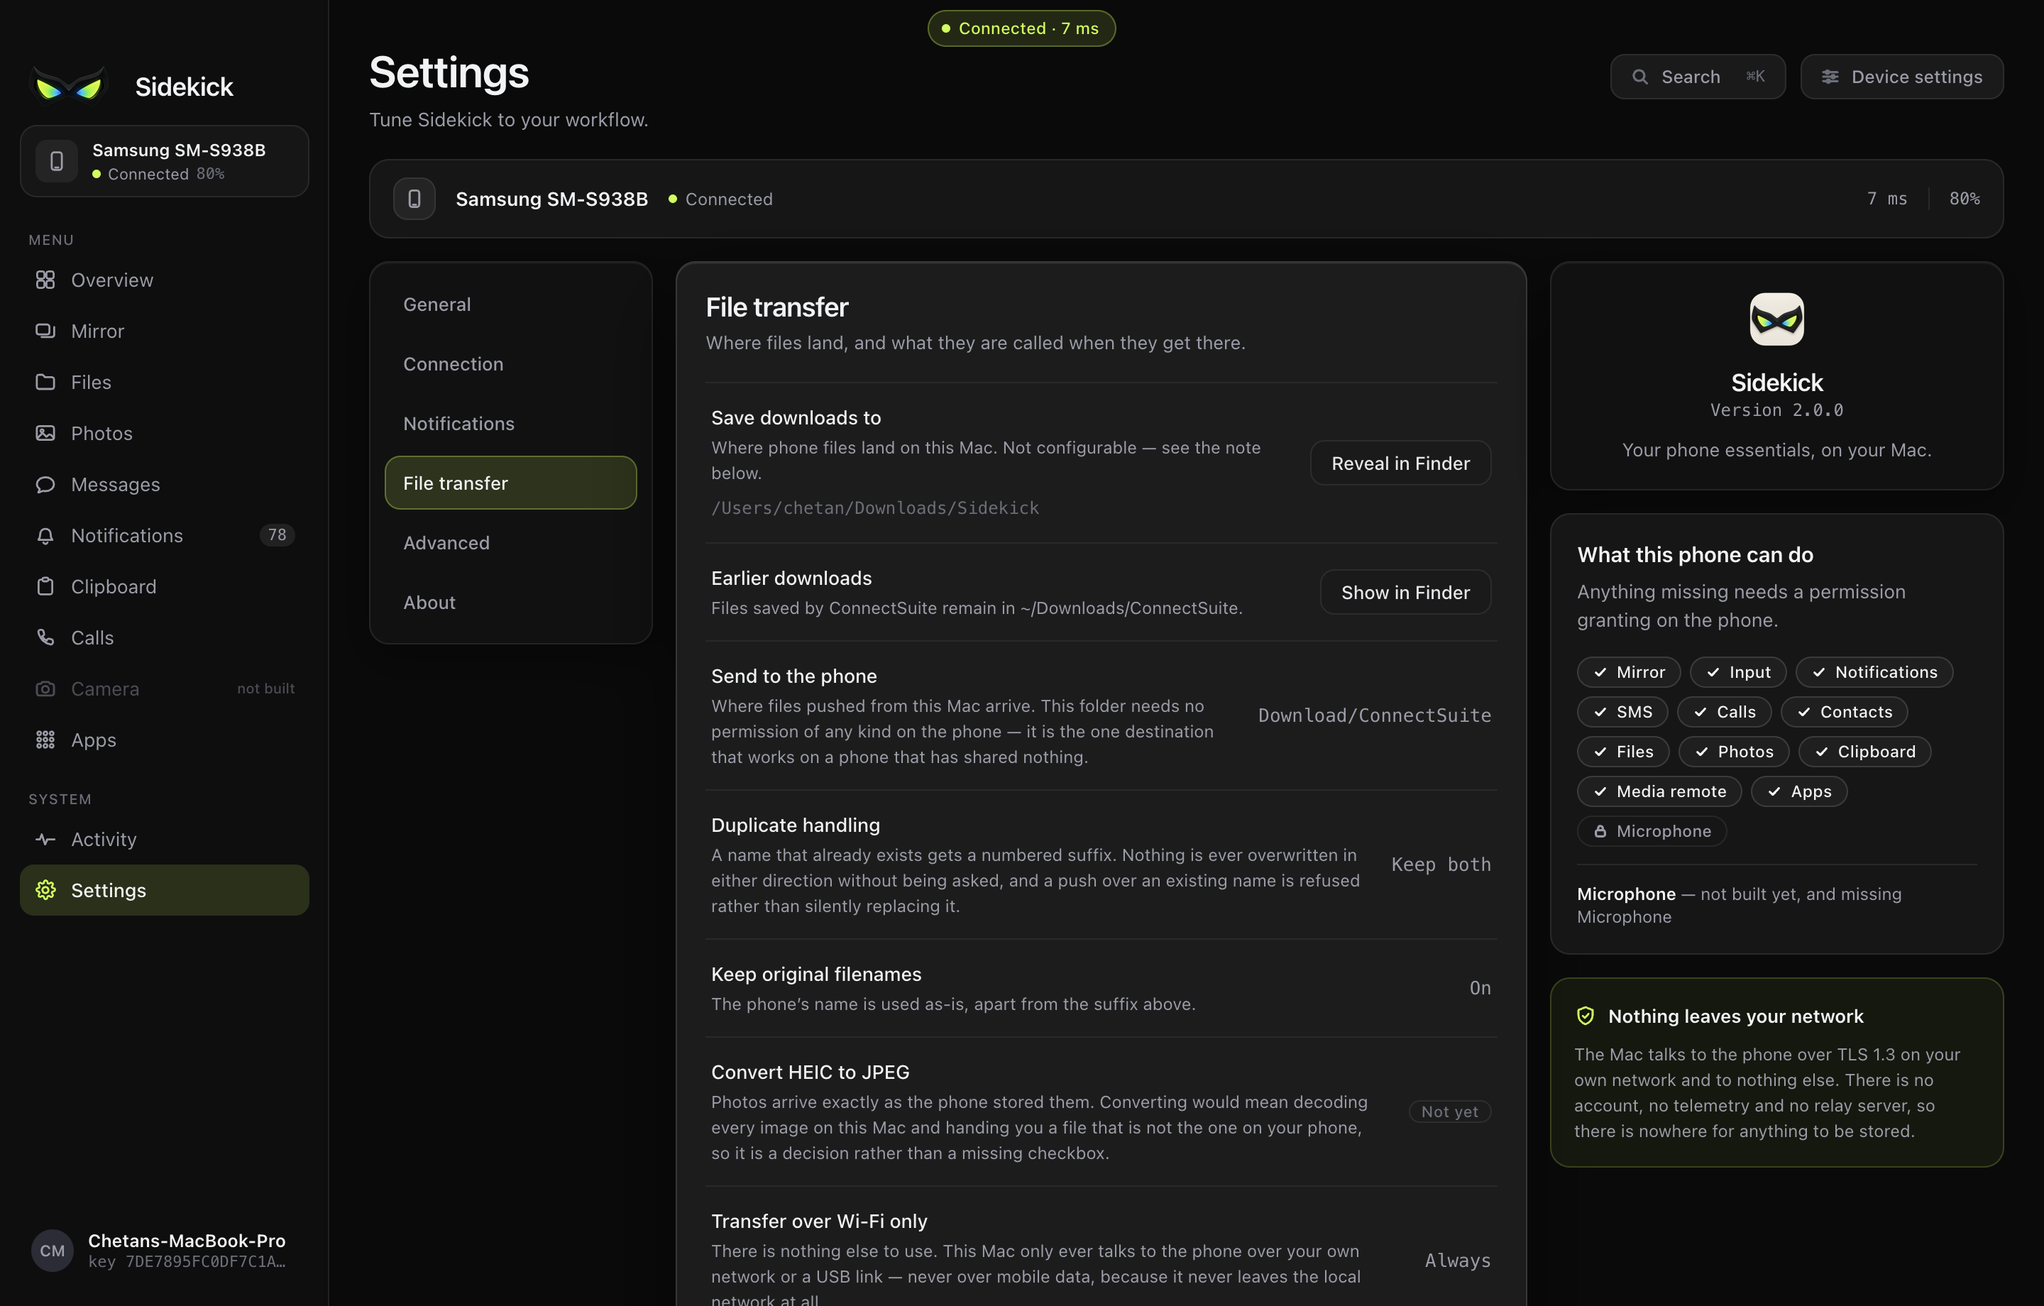
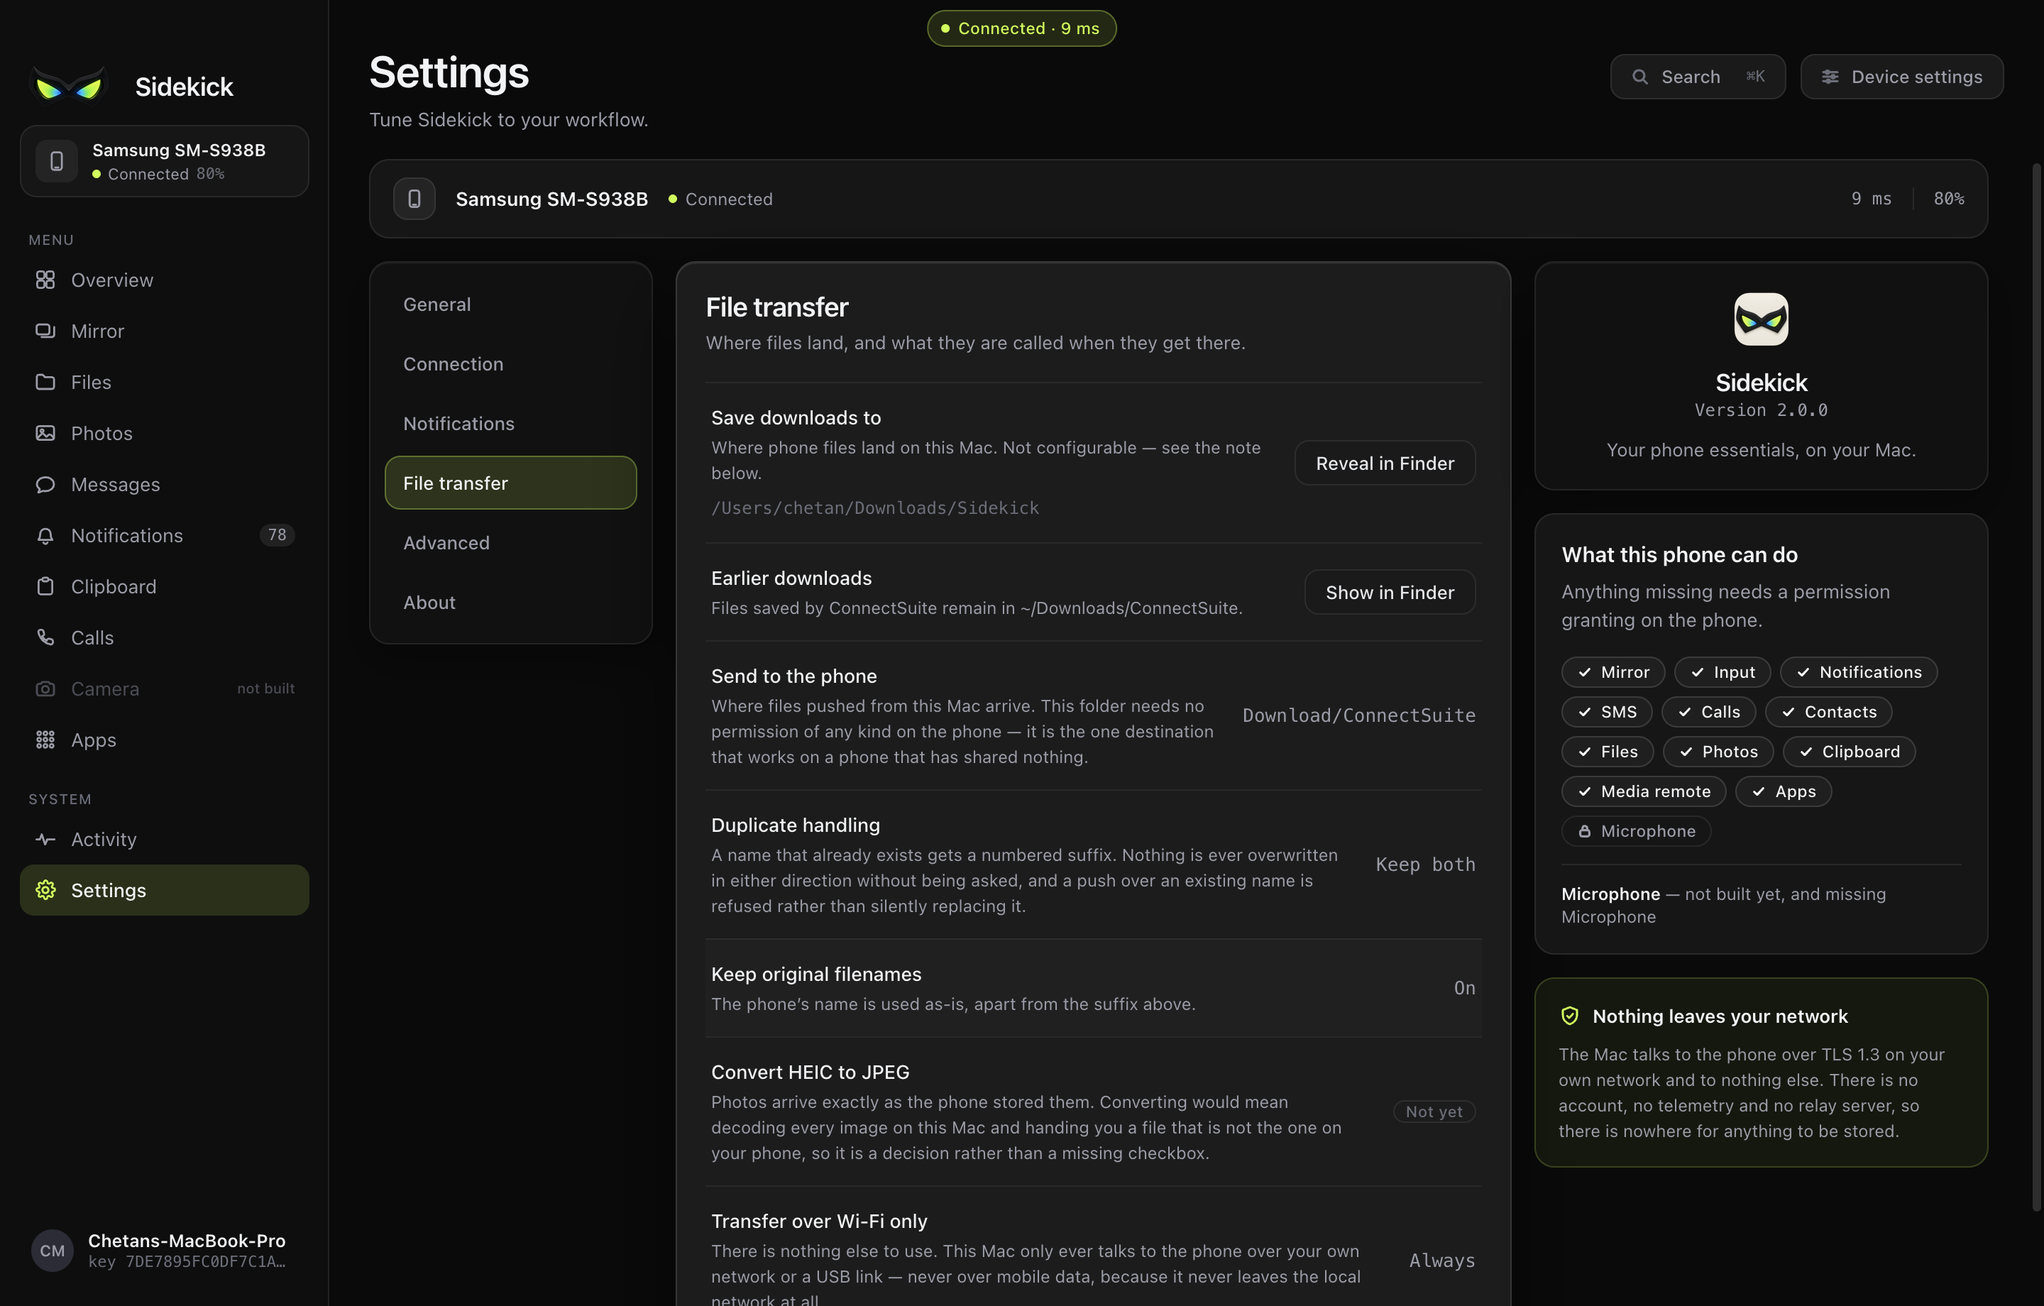
Sidekick Batch 3 demo polish: Mirror Link card, pairing-while-connected test, final evidence
- Mirror: the handoff's Link card (route, address, round trip, TLS 1.3
  pinned) from live status only; Tools stay the rail beside the canvas
  (D26). Start at rest, bottom 249px; exactly one of Start/Stop shown
- Pairing: the pairing-qr sequence moved to main/pairingArm.ts and
  pairingArm.test.ts drives the real LinkClient - opening the screen
  while connected does not tear down, forget, rotate the code, or touch
  the identity (red-first: 3 mutations). Confirmed live on the SM-S938B
- Show in Finder measured read-only (stat hash identical, 29 entries);
  packaged Sidekick.app assets byte-identical to source
- Five 1440x920 screenshots (viewport emulated: display offered 865px)

npm test 837/837, typecheck clean, 13 guards exit 0.

diff --git a/desktop/src/main/pairingArm.test.ts b/desktop/src/main/pairingArm.test.ts
@@ -1,0 +1,127 @@
+/*
+ * Opening the pairing screen while a phone is already connected must not disturb it.
+ *
+ * Runs the real `LinkClient` through the real `armPairingCode` — the sequence the `pairing-qr`
+ * handler calls — with only Electron and `electron-store` replaced, because neither can load under
+ * `node --test`. **What this does not reach**, said rather than implied: the connected state is set
+ * by hand (a real one needs a TLS handshake with a phone), and the renderer's route hook in
+ * `renderer.ts` — which only asks for a code when none is drawn — is reached by no test.
+ */
+import { test } from 'node:test';
+import assert from 'node:assert/strict';
+import Module from 'node:module';
+import { mkdtempSync } from 'node:fs';
+import { tmpdir } from 'node:os';
+import { join } from 'node:path';
+
+const userData = mkdtempSync(join(tmpdir(), 'pairing-arm-'));
+const storeWrites: Array<[string, unknown]> = [];
+const storeData = new Map<string, unknown>();
+
+// Electron and electron-store are stubbed before link.ts is loaded, which is why it is `require`d
+// below rather than imported: an import would be hoisted above this hook.
+const moduleWithLoad = Module as unknown as { _load: (request: string, ...rest: unknown[]) => unknown };
+const realLoad = moduleWithLoad._load;
+moduleWithLoad._load = function (request: string, ...rest: unknown[]) {
+  if (request === 'electron') {
+    return { app: { getPath: () => userData, isPackaged: false, getName: () => 'test' }, safeStorage: {} };
+  }
+  if (request === 'electron-store') {
+    return class {
+      constructor(opts?: { defaults?: Record<string, unknown> }) {
+        for (const [k, v] of Object.entries(opts?.defaults ?? {})) storeData.set(k, v);
+      }
+      get(key: string) { return storeData.get(key); }
+      set(key: string, value: unknown) { storeWrites.push([key, value]); storeData.set(key, value); }
+    };
+  }
+  return realLoad.call(this, request, ...rest);
+};
+
+// eslint-disable-next-line @typescript-eslint/no-require-imports
+const { LinkClient } = require('./link') as typeof import('./link');
+// eslint-disable-next-line @typescript-eslint/no-require-imports
+const { armPairingCode } = require('./pairingArm') as typeof import('./pairingArm');
+
+const PAIRED = { deviceId: 'phone-1', deviceName: 'Galaxy', fingerprint: 'AA:BB', pairedAt: 1 };
+const IDENTITY = { certPem: 'CERT', keyPem: 'KEY', fingerprint: '11:22:33', deviceName: 'Mac' };
+
+interface Internals {
+  running: boolean;
+  phase: string;
+  socket: unknown;
+  attempt: () => Promise<void>;
+  teardown: (reason: string) => void;
+  stop: (reason?: string) => void;
+}
+
+/** A client in the state a live session leaves it in, with every way out of that state counted. */
+function connectedClient() {
+  storeData.set('paired', PAIRED);
+  storeWrites.length = 0;
+  const identity = { ...IDENTITY };
+  const client = new LinkClient(identity);
+  const inner = client as unknown as Internals;
+  const calls = { attempt: 0, teardown: 0, stop: 0, destroy: 0, end: 0 };
+  inner.running = true;
+  inner.phase = 'connected';
+  inner.socket = { destroy: () => { calls.destroy++; }, end: () => { calls.end++; }, write: () => true,
+    removeAllListeners: () => undefined, on: () => undefined, once: () => undefined };
+  inner.attempt = async () => { calls.attempt++; };
+  const realTeardown = inner.teardown.bind(client);
+  inner.teardown = (reason) => { calls.teardown++; realTeardown(reason); };
+  const realStop = inner.stop.bind(client);
+  inner.stop = (reason) => { calls.stop++; realStop(reason); };
+  return { client, inner, calls, identity };
+}
+
+test('opening the pairing screen while connected leaves the session up', () => {
+  const { client, inner, calls } = connectedClient();
+  armPairingCode(client, '192.168.1.5', false);
+  assert.equal(client.isConnected(), true);
+  assert.equal(inner.running, true);
+  assert.notEqual(inner.socket, null);
+  assert.deepEqual(calls, { attempt: 0, teardown: 0, stop: 0, destroy: 0, end: 0 });
+});
+
+test('opening the pairing screen while connected keeps the pairing', () => {
+  const { client } = connectedClient();
+  armPairingCode(client, '192.168.1.5', false);
+  assert.deepEqual(storeData.get('paired'), PAIRED);
+  assert.deepEqual(storeWrites, [], 'the pairing screen wrote to the settings store');
+  assert.equal(client.status().paired, true);
+});
+
+test('re-opening the pairing screen keeps the code already on screen', () => {
+  const { client } = connectedClient();
+  const first = armPairingCode(client, '192.168.1.5', false);
+  const second = armPairingCode(client, '192.168.1.5', false);
+  assert.equal(second.token, first.token);
+  assert.equal(client.isPairingArmed(), true);
+});
+
+test('only an explicit new code rotates the token', () => {
+  // The control for the test above: the token *can* change, so "unchanged" is a reading.
+  const { client } = connectedClient();
+  const first = armPairingCode(client, '192.168.1.5', false);
+  const rotated = armPairingCode(client, '192.168.1.5', true);
+  assert.notEqual(rotated.token, first.token);
+  assert.equal(client.isConnected(), true, 'a rotation must not end the session either');
+});
+
+test('the code carries the same TLS identity, and arming does not change it', () => {
+  const { client, identity } = connectedClient();
+  const payload = armPairingCode(client, '192.168.1.5', false);
+  armPairingCode(client, '192.168.1.5', true);
+  assert.equal(payload.fp, IDENTITY.fingerprint);
+  assert.equal(payload.name, IDENTITY.deviceName);
+  assert.deepEqual(identity, IDENTITY);
+});
+
+test('control: a stopped client is started, so the checks above can see a start', () => {
+  const { client, inner, calls } = connectedClient();
+  inner.running = false;
+  inner.phase = 'idle';
+  armPairingCode(client, '192.168.1.5', false);
+  assert.ok(calls.attempt >= 1, `no dial attempt from a stopped client (${calls.attempt})`);
+});

diff --git a/desktop/src/renderer/renderer.ts b/desktop/src/renderer/renderer.ts
@@ -397,6 +397,31 @@ function paintMirrorButtons(): void {
  * fact, and the last time two views of one fact were fed separately in this codebase it was
  * defect 27, a reason going stale in one place and not the other.
  */
+/**
+ * Mirror's Link card. Every value is the live status or a dash — a round trip is shown only when one
+ * was measured, and the route uses the shell's own wording (`heroTransportOf`), so the card and the
+ * Overview hero cannot name the same link two ways.
+ */
+function paintMirrorLink(status: RendererStatus | null): void {
+  const connected = status?.phase === 'connected';
+  const rows: Array<[string, string]> = [
+    ['Route', heroTransportOf(status)],
+    ['Address', connected ? (status?.address ?? '—') : '—'],
+    ['Round trip', connected && status?.rttMs !== undefined ? `${status.rttMs} ms` : '—'],
+    ['Encryption', connected ? 'TLS 1.3, pinned' : '—'],
+  ];
+  el('mirror-link').replaceChildren(
+    ...rows.flatMap(([k, v]) => {
+      const dt = document.createElement('dt');
+      dt.textContent = k;
+      const dd = document.createElement('dd');
+      dd.className = 'mono';
+      dd.textContent = v;
+      return [dt, dd];
+    }),
+  );
+}
+
 function render(status: RendererStatus | null): void {
   shell.setStatus(status);
 
@@ -411,6 +436,7 @@ function render(status: RendererStatus | null): void {
   // the user an action the phone has already said it cannot perform.
   canMirror = status?.capabilities?.includes('mirror') ?? false;
   paintMirrorButtons();
+  paintMirrorLink(status);
 
   // The phone's own sentence for anything it is not offering. Hoisted above its two consumers —
   // the panes below and the capability chips further down — rather than built twice: defect 27 was

diff --git a/desktop/src/main/main.ts b/desktop/src/main/main.ts
@@ -82,6 +82,7 @@ import {
 } from './legacyData';
 import { VideoClient, type VideoFrame } from './video';
 import { FloatMirrorWindow } from './float';
+import { armPairingCode } from './pairingArm';
 import { fitWindow, DESIGN } from '../shared/windowGeometry';
 
 let window: BrowserWindow | null = null;
@@ -2645,7 +2646,7 @@ function stopPairIntentWatch(): void {
 
 ipcMain.handle('pairing-qr', async (_event, rotate?: boolean) => {
   if (!link) throw new Error('Link not ready');
-  const payload = link.armPairing(localAddress(), rotate === true);
+  const payload = armPairingCode(link, localAddress(), rotate === true);
   const dataUrl = await QRCode.toDataURL(JSON.stringify(payload), QR_OPTIONS);
   log.info('pairing', `QR armed for ${payload.host}`);
   // A new code invalidates any sighting of the old one, so the watch is replaced rather than added
@@ -2656,12 +2657,6 @@ ipcMain.handle('pairing-qr', async (_event, rotate?: boolean) => {
       sendAll('pair-scanned', { deviceName: deviceName as string | null });
     });
   }
-  // Arming a code is the user saying "pair now", and the Mac is the only side that dials out.
-  // forget-device leaves the client stopped, so without this the phone scans a code that nothing
-  // is dialling for: it trusts us, we never call, and pairing can never complete. start() is a
-  // no-op when already running; retryNow cuts a backoff that could be 30s long.
-  link.start();
-  link.retryNow('pairing QR armed');
   return { payload, dataUrl };
 });
 

diff --git a/desktop/src/main/pairingArm.ts b/desktop/src/main/pairingArm.ts
@@ -1,0 +1,26 @@
+import type { PairingQrPayload } from '../shared/protocol';
+
+/** The three calls the pairing screen makes on the link — nothing that could end a session. */
+export interface ArmableLink {
+  armPairing(localAddress: string, rotate?: boolean): PairingQrPayload;
+  start(): void;
+  retryNow(reason: string): void;
+}
+
+/**
+ * What opening the pairing screen does to the link, in one home so the `pairing-qr` handler and
+ * `pairingArm.test.ts` run the same sequence.
+ *
+ * Arming a code is the user saying "pair now", and the Mac is the only side that dials out:
+ * `forget-device` leaves the client stopped, so without `start()` the phone scans a code nothing is
+ * dialling for. **None of the three may disturb a phone that is already connected**, and each is
+ * safe for its own reason: `start()` returns when the client is running, `retryNow()` returns when
+ * connected, and `armPairing(…, false)` keeps the token and only pushes the expiry out. There is
+ * deliberately no `stop()` here — the screen can be opened with ⌘K mid-session.
+ */
+export function armPairingCode(link: ArmableLink, localAddress: string, rotate: boolean): PairingQrPayload {
+  const payload = link.armPairing(localAddress, rotate);
+  link.start();
+  link.retryNow('pairing QR armed');
+  return payload;
+}

diff --git a/desktop/src/renderer/index.html b/desktop/src/renderer/index.html
@@ -380,6 +380,15 @@
                       <p class="side-meta mono" id="mirror-actual">Not capturing.</p>
                     </div>
 
+                    <!--
+                      Link — the handoff's fourth card. Read-only and written from the live status
+                      alone: the route the wire can name, the address, the last measured round trip.
+                    -->
+                    <div class="side-card">
+                      <h3 class="side-title">Link</h3>
+                      <dl class="link-facts" id="mirror-link"></dl>
+                    </div>
+
                     <div class="side-card">
                       <h3 class="side-title">Advanced</h3>
                       <!--

diff --git a/desktop/src/renderer/styles.css b/desktop/src/renderer/styles.css
@@ -2667,6 +2667,17 @@ img#qr {
 
 .side-meta { margin: var(--space-5) 0 0; font-size: 11px; color: var(--text-meta); }
 
+.link-facts {
+  display: grid;
+  grid-template-columns: auto 1fr;
+  gap: var(--space-3) var(--space-6);
+  margin: 0;
+  font: var(--text-caption);
+  letter-spacing: var(--tracking-caption);
+}
+.link-facts dt { color: var(--text-meta); }
+.link-facts dd { margin: 0; text-align: right; color: var(--text-primary); }
+
 .quality-rows { display: flex; flex-direction: column; gap: var(--space-3); }
 
 .quality-row {

diff --git a/docs/testing.md b/docs/testing.md
@@ -20976,3 +20976,42 @@ Screenshots: `docs/evidence/sidekick-batch2/`.
   card is the handoff's centred 560. The rename notice was drawn **SYNTHETICALLY** with the real
   `RENAME_REFUSAL` sentence (the re-pair on this Mac has already been paid), then restored from the
   main process. The pairing fix lives in `renderer.ts`, which no test reaches — recorded as such.
+
+### Batch 3 follow-up — the demo pass, 2026-09-19
+
+**The display offered 865px of height this sitting**, so the real window opened at **1440 × 841**
+(`fitWindow` caps to the work area). Every image below was therefore captured with the viewport
+**emulated** at 1440 × 920 @2x (`Emulation.setDeviceMetricsOverride`), each capture refusing unless
+`innerHeight === 920` and the named `section[data-screen]` was visible. Each sidecar `.json` says so.
+Batch 2's D21 records the demo Mac at 1512 × 982; whichever display scaling gave that is not the one
+active now.
+
+- **Pairing, while a phone is connected — now tested, and read live.** The `pairing-qr` handler's
+  arm/start/retry sequence moved into `src/main/pairingArm.ts` so the handler and a test run the same
+  lines; `pairingArm.test.ts` (6 tests) drives the **real `LinkClient`** with only Electron and
+  `electron-store` stubbed. It asserts: no teardown, stop, socket destroy or dial while connected; no
+  settings-store write; a re-open keeps the token; the payload carries the unchanged identity. The
+  connected state is **set by hand** (a real one needs a phone's TLS handshake) and says so.
+  Red-first: `retryNow` without its `isConnected()` guard → 1 red; `armPairing` always rotating →
+  1 red; a `stop()` in the sequence → 2 red. Controls: an explicit rotate *does* change the token,
+  and a stopped client *is* dialled. **Live, on the SM-S938B:** before `phase=connected paired=true`,
+  QR `src` absent; on opening Pairing a 320 × 320 code drew; re-opening left the `src` and
+  `pairingExpiresAt` byte-identical; 4 s later still `connected`, `paired`, Mac fingerprint
+  `7DE7895FC0DF7C1A` unchanged. The renderer's route hook is still reached by no test.
+- **Mirror — the Link card** (D26): route, address, round trip, encryption, from live status. Start
+  measured at rest: `Start mirroring` drawn, bottom **249px**; `Stop mirroring` `hidden`, 0 × 0.
+  Cards: Session 131, Quality 301, Link, Advanced. **Still no live session run.**
+- **Settings → Show in Finder, read-only by measurement.** A stat of every entry (name, size, mtime,
+  inode) under `~/Downloads/ConnectSuite` and `~/Downloads/Sidekick`, hashed, before and after one
+  press through the page: identical, 29 entries. Toast: *Opened /Users/chetan/Downloads/ConnectSuite*.
+  The row's condition is `legacyPath !== null`, tested both ways in `legacyData.test.ts`; its absent
+  case was **not** shown live (it would mean moving the user's folder).
+- **Packaged assets:** `npm run dist:dir` → `release/mac-arm64/Sidekick.app` (built 07:09). All 6
+  files under `renderer/assets/` extracted from its asar are byte-identical to source. The first
+  comparison read `release/mac/ConnectSuite.app` — the 2026-09-17 bundle, which holds none of them —
+  and reported 6 DIFFs; the path, not the build, was wrong. electron-builder reports **the default
+  Electron icon** (no `icon` configured) — the packaged app's Dock icon is not Sidekick's.
+- Evidence: `docs/evidence/sidekick-batch3/` — `overview-connected`, `overview-disconnected`
+  (Disconnect pressed on the Mac, reconnected after), `mirror-ready`, `settings-file-transfer`,
+  `pairing`, all `-1440x920.png`. `npm test` **837 / 837**; typecheck clean; 13 guards exit 0, 155
+  guard fixtures green.

diff --git a/docs/design-departures.md b/docs/design-departures.md
@@ -1123,3 +1123,12 @@ theme (the frozen dark `--np-*` island is no longer read); the footer strip is r
 Connection & security; Recent shows **four** 48px rows; the hero is 700 × 300 with the 148 × 260
 phone and a row-major 2 × 2; lime appears nowhere on a non-connected Overview (hero bloom, disabled
 primary button).
+
+## Sidekick Batch 3 follow-up — Mirror's right column — 2026-09-19. Row D26
+
+Frame `31:1566`; handoff §Mirror: *"Right column: Session, Quality, Tools, Link."* **No Figma render
+was taken.**
+
+| Row | Figma | Built | Why |
+|---|---|---|---|
+| **D26** | Tools are the third card in the right column | Tools stay the **rail beside the canvas** (Capture, Refresh, Transfer, Rotation readout); the right column is Session, Quality, **Link**, then Advanced | The rail is M11/S11, generated from `navModel.TOOL_RAIL` and inside the icon guard. Moving it is a layout change to the one pane that must not regress before a demo. **Link was missing entirely and is now built** — route (`heroTransportOf`, the Overview's own wording), address, measured round trip, and *TLS 1.3, pinned* (`minVersion: 'TLSv1.3'` and the fingerprint compare in `link.ts`); every value is a dash when not connected |
